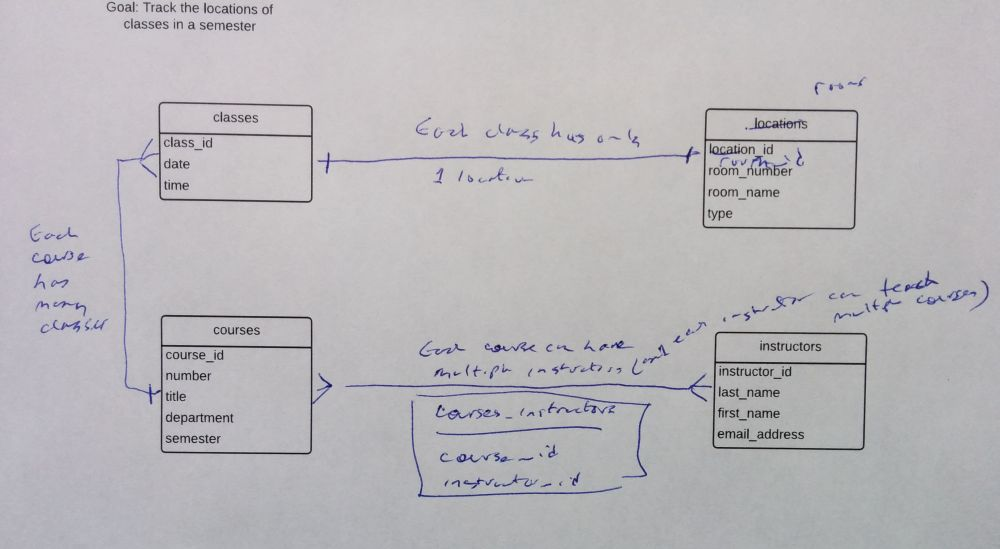
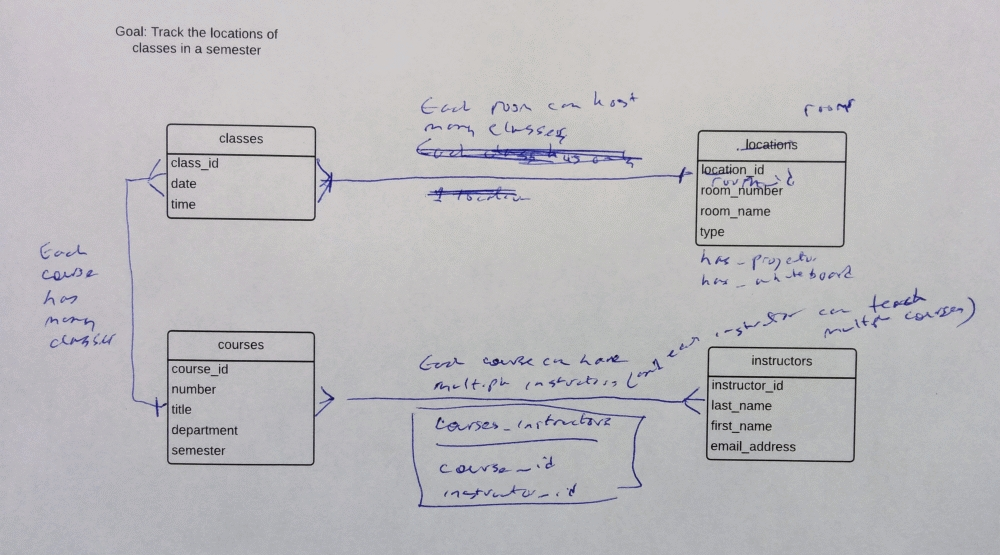
Work on the ER modelling section.

diff --git a/README.md b/README.md
@@ -340,7 +340,9 @@ We can then use this list as a basis for rough ER diagram, which provides us wit
 
 ![Rough ER diagram with notes](assets/classes_modelling_example.jpg)
 
-Using the modifications made to our 
+Using the modifications made to our rough ER diagram, we can create a cleaner version before moving on to normalization:
+
+![Revised ER diagram](assets/classes_modelling_example_revised_erd.jpg)
 
 
 ## Normalization
